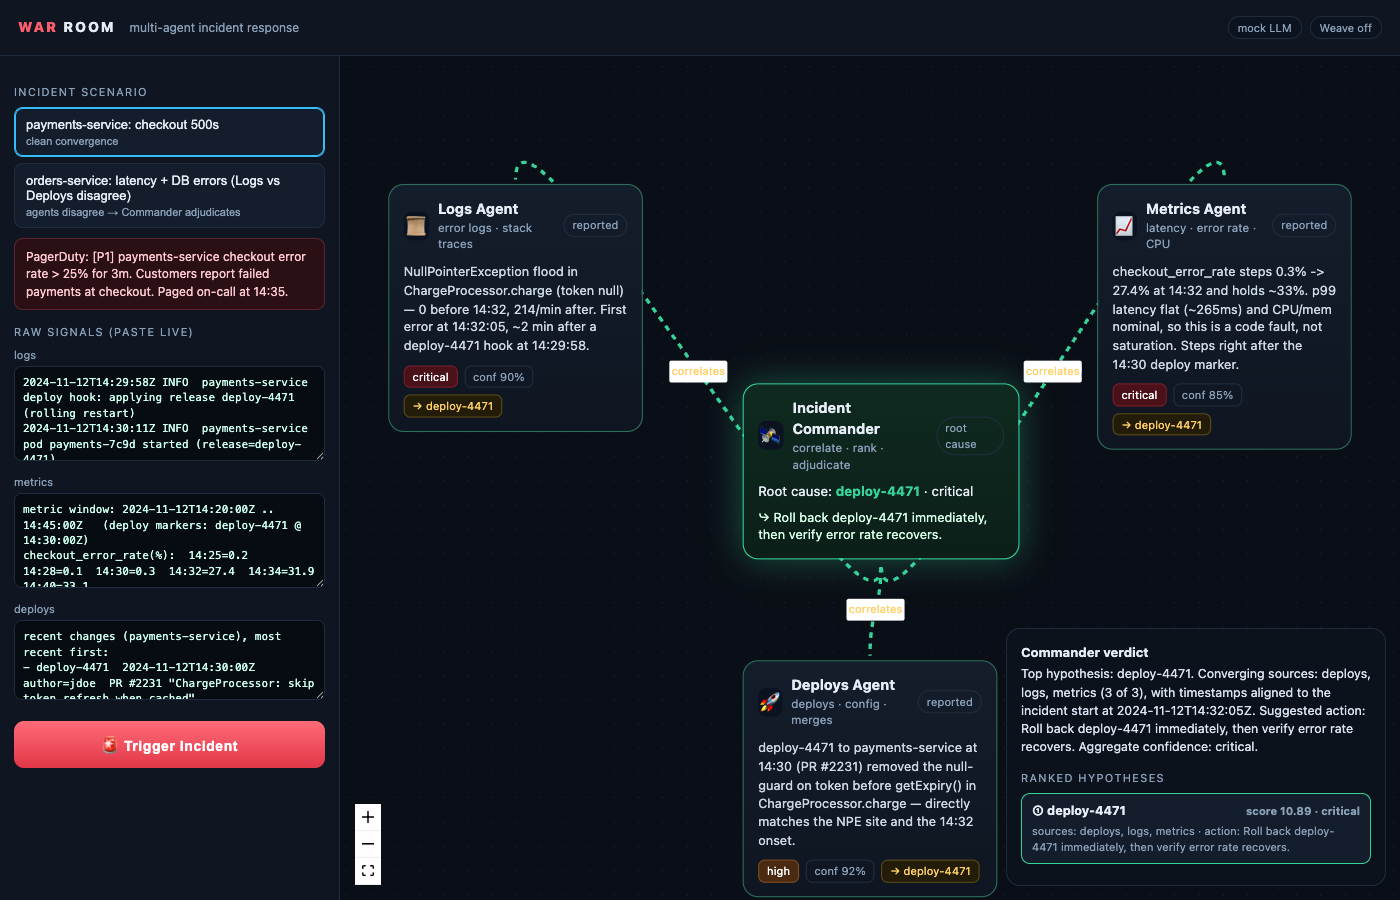
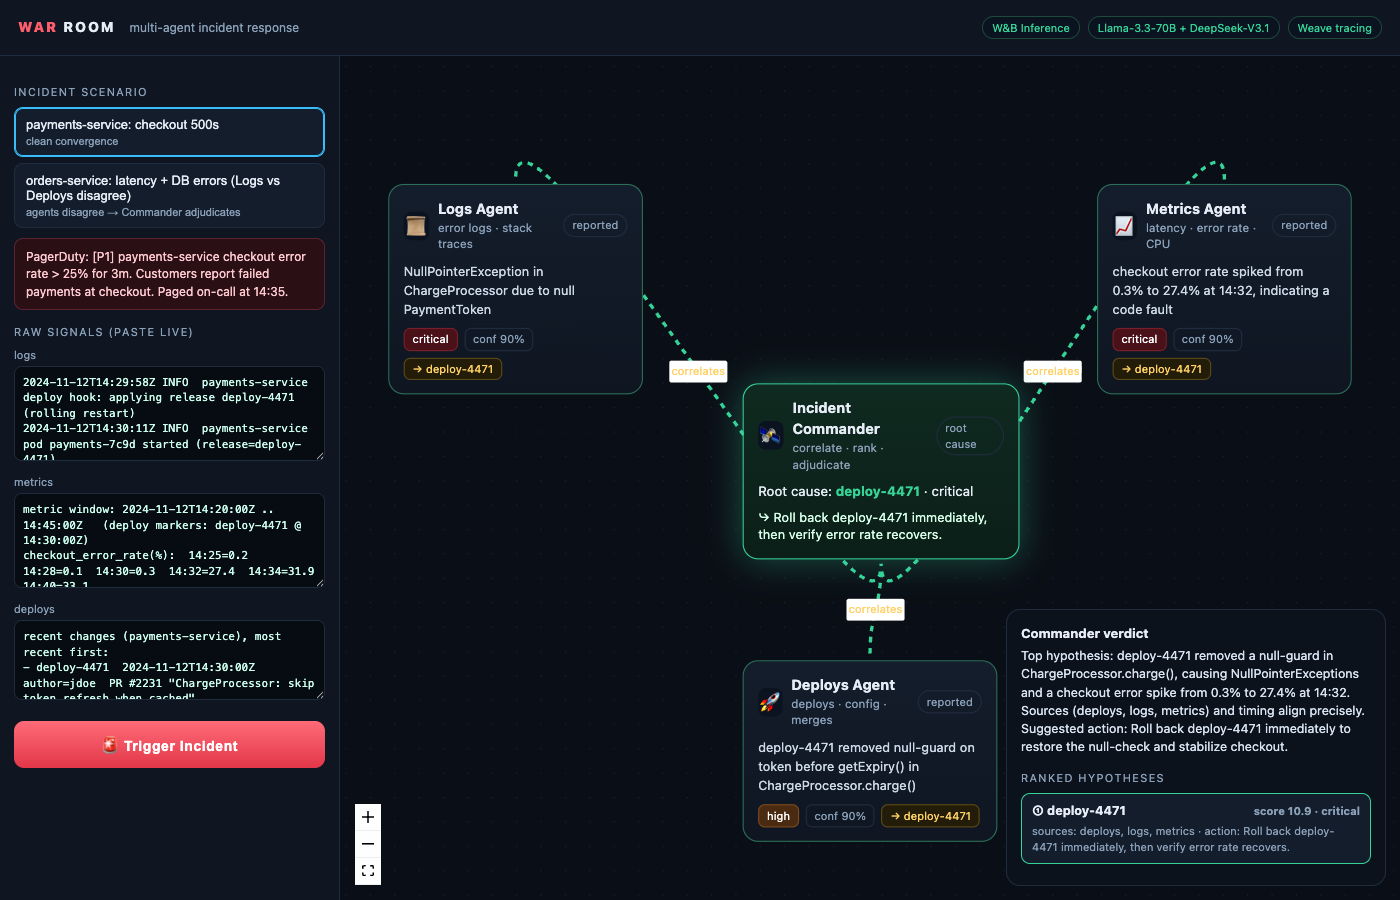
Live W&B verification: fix model id, restore disagreement, eval 5/5
- DeepSeek-R1-0528 is no longer in the W&B Inference catalog -> default Commander
  is now deepseek-ai/DeepSeek-V3.1 (verified live; full run ~4-6s).
- db-vs-deploy: removed the deploy-hook line from the Logs slice so the Logs agent
  genuinely blames the DB (clean separation) -> the Commander adjudication beat
  fires with real models, not just mock.
- weave.Evaluation now alias-aware: the crew correctly identified the TLS-cert
  incident but labelled it 'tls-certificate-expiration'; accept TLS/cert aliases.
  Live result: top-1 accuracy 5/5 (was 4/5), MRR 1.0. Both runs logged to Weave.
- README: real models + the 0.80 -> 1.00 iteration story; live demo screenshot.

diff --git a/backend/eval.py b/backend/eval.py
@@ -47,13 +47,30 @@ async def predict(incident: dict) -> dict:
     }
 
 
+def _match(cause: str, truth: str, aliases: list[str]) -> bool:
+    """Cause id matches the ground truth by exact/substring or a known alias.
+
+    Deploy/config ids match verbatim; a semantic cause (e.g. an expired TLS cert)
+    matches whether the model labels it 'cert-expiry' or 'tls-certificate-expiration'.
+    """
+    c = cause.lower()
+    t = truth.lower()
+    if t in c or c in t:
+        return True
+    return any(a.lower() in c for a in aliases)
+
+
 @weave.op()
-def rca_scorer(ground_truth_cause: str, output: dict) -> dict:
+def rca_scorer(ground_truth_cause: str, ground_truth_aliases: list[str], output: dict) -> dict:
     """Score the Commander's ranking against the known root cause."""
     causes = output["ranked_causes"]
-    rank = (causes.index(ground_truth_cause) + 1) if ground_truth_cause in causes else 0
+    rank = 0
+    for i, c in enumerate(causes):
+        if _match(c, ground_truth_cause, ground_truth_aliases):
+            rank = i + 1
+            break
     return {
-        "top1_correct": output["top_cause"] == ground_truth_cause,
+        "top1_correct": _match(output["top_cause"], ground_truth_cause, ground_truth_aliases),
         "found_in_ranking": rank > 0,
         "truth_rank": rank,
         "reciprocal_rank": (1.0 / rank) if rank else 0.0,
@@ -61,7 +78,14 @@ def rca_scorer(ground_truth_cause: str, output: dict) -> dict:
 
 
 def _rows() -> list[dict]:
-    return [{"incident": s, "ground_truth_cause": s["ground_truth_cause"]} for s in EVAL_SET]
+    return [
+        {
+            "incident": s,
+            "ground_truth_cause": s["ground_truth_cause"],
+            "ground_truth_aliases": s.get("ground_truth_aliases", []),
+        }
+        for s in EVAL_SET
+    ]
 
 
 async def _run_weave_eval():
@@ -84,7 +108,7 @@ async def _run_local_eval():
     results = []
     for row in rows:
         out = await predict(row["incident"])
-        sc = rca_scorer(row["ground_truth_cause"], out)
+        sc = rca_scorer(row["ground_truth_cause"], row["ground_truth_aliases"], out)
         results.append((row["incident"]["id"], row["ground_truth_cause"], out["top_cause"], sc))
         mark = "✓" if sc["top1_correct"] else "✗"
         print(f"  {mark} {row['incident']['id']:16} truth={row['ground_truth_cause']:18} "

diff --git a/backend/scenarios.py b/backend/scenarios.py
@@ -97,7 +97,6 @@ DB_VS_DEPLOY = {
         "errors. On-call paged 14:36."
     ),
     "logs": """\
-2024-11-12T14:30:02Z INFO  orders-service deploy hook: applying release deploy-4480 (rolling restart)
 2024-11-12T14:32:01Z ERROR orders-service org.hibernate.exception: could not get JDBC Connection
     Caused by: HikariPool-1 - Connection is not available, request timed out after 5000ms (pool size 5)
 2024-11-12T14:32:44Z ERROR orders-service HikariPool-1 timeout; active=5 idle=0 waiting=37
@@ -219,6 +218,9 @@ recent changes (catalog-service), most recent first:
 CERT_EXPIRY = {
     "id": "cert-expiry",
     "ground_truth_cause": "cert-expiry",
+    # The cause is an expired TLS cert; models legitimately label it differently
+    # (e.g. "tls-certificate-expiration"). Accept any label naming TLS/cert.
+    "ground_truth_aliases": ["cert", "tls", "certificate"],
     "title": "gateway: upstream 503s with no recent deploy",
     "incident_start": "2024-11-12T00:00:30Z",
     "window_start": "2024-11-11T23:40:00Z",

diff --git a/backend/llm.py b/backend/llm.py
@@ -29,7 +29,7 @@ WANDB_INFERENCE_BASE = "https://api.inference.wandb.ai/v1"
 
 # Defaults per provider; any can be overridden via env.
 _WANDB_INVESTIGATOR = "meta-llama/Llama-3.3-70B-Instruct"
-_WANDB_COMMANDER = "deepseek-ai/DeepSeek-R1-0528"
+_WANDB_COMMANDER = "deepseek-ai/DeepSeek-V3.1"  # reasoning model for synthesis/adjudication
 
 _client: AsyncOpenAI | None = None
 

diff --git a/README.md b/README.md
@@ -109,9 +109,11 @@ All four agents run on **W&B-hosted open models** via the OpenAI-compatible endp
 route by job:
 - **Investigators** (Logs / Metrics / Deploys) → `meta-llama/Llama-3.3-70B-Instruct`
   — fast, capable, great for the parallel structured-output fan-out.
-- **Incident Commander** → `deepseek-ai/DeepSeek-R1-0528` — a reasoning model for the
-  synthesis/adjudication step. *We route the hard reasoning to R1 and the parallel
-  investigation to Llama.* Both models report usage via the required `team/project`.
+- **Incident Commander** → `deepseek-ai/DeepSeek-V3.1` — a reasoning model for the
+  synthesis/adjudication step. *We route the hard reasoning to DeepSeek and the
+  parallel investigation to Llama.* Both models report usage via the required
+  `team/project`. (Override either with `WARROOM_INVESTIGATOR_MODEL` /
+  `WARROOM_COMMANDER_MODEL`.)
 
 ### 2. W&B **Weave** (tracing) — *"debugging the debugger"*
 We use Weave to **trace and debug a crew whose entire job is debugging production
@@ -141,9 +143,17 @@ a real metric and compare runs on a Weave leaderboard.
 .venv/bin/python -m backend.eval      # logs an Evaluation to your Weave project's Evals tab
 ```
 
+**Live result on W&B Inference (Llama-3.3-70B investigators):** top-1 root-cause
+accuracy **5/5 (1.00)**, MRR 1.00. And the eval *earned its keep*: the first run
+scored **0.80** — the Weave trace showed the crew had actually nailed the TLS-cert
+incident but labelled it `tls-certificate-expiration` while our scorer demanded the
+literal `cert-expiry`. We added alias-aware scoring and re-ran to 1.00. Both runs sit
+on the Weave leaderboard as a before/after — *exactly* the iterate-against-a-real-metric
+loop the tool is for.
+
 > Pitch: *"We don't just trace War Room with Weave — we evaluate root-cause accuracy
-> on a held-out incident set. The crew that debugs production is itself measurable in
-> production."*
+> on a held-out incident set, and Weave caught a scoring blind spot we then fixed. The
+> crew that debugs production is itself measurable in production."*
 
 ### OpenAI (alternative path)
 If `OPENAI_API_KEY` is set instead of W&B creds, the same code runs on `gpt-4o-mini`